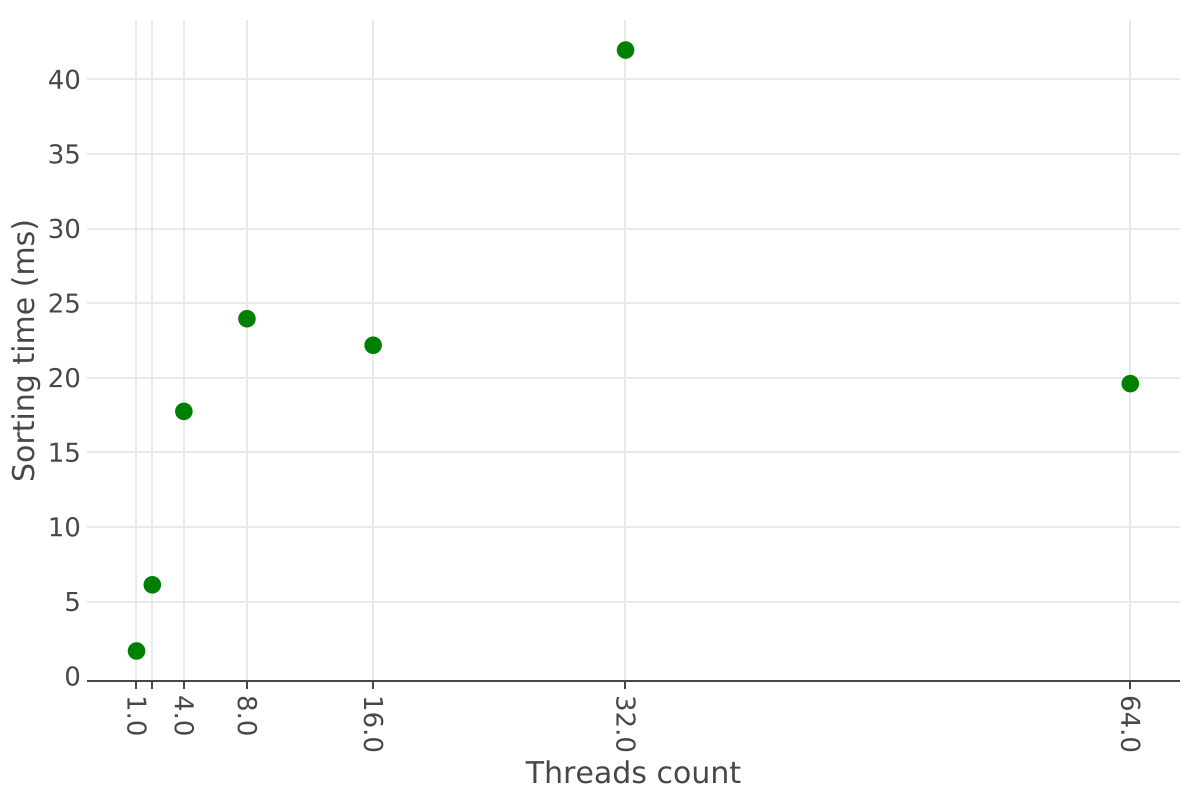
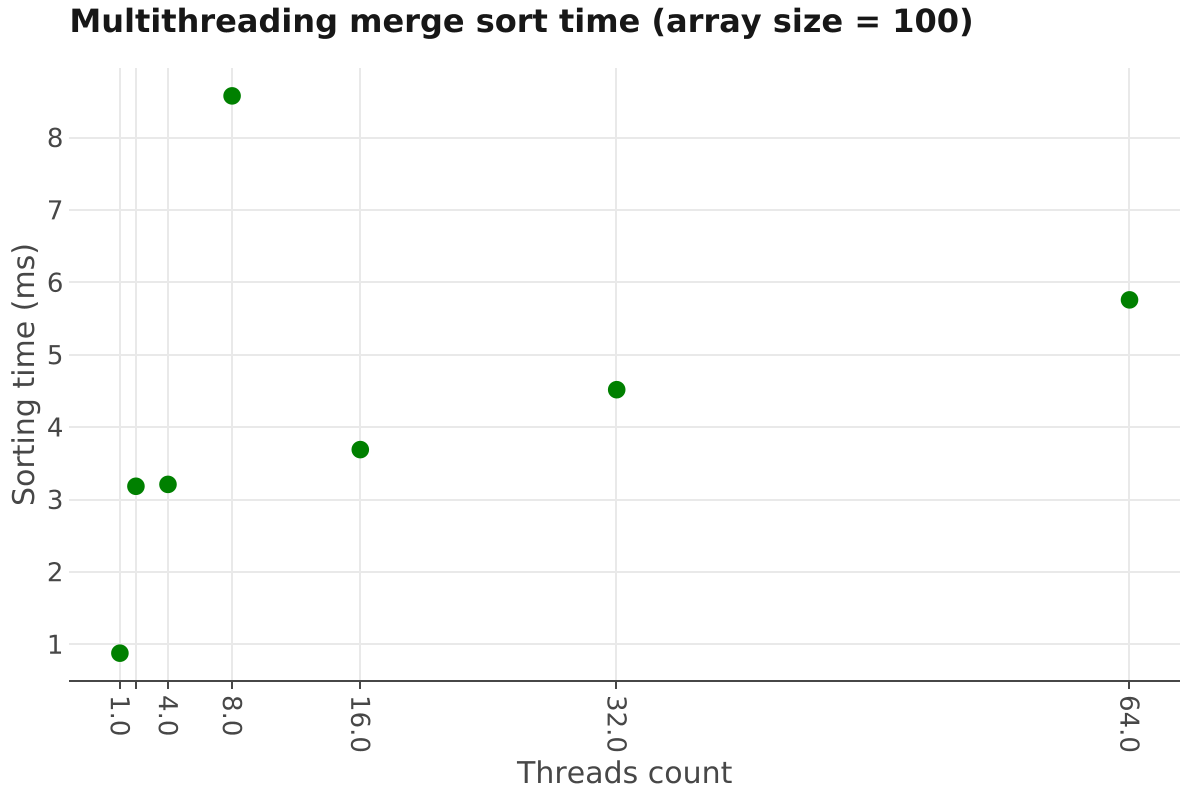
I fixed threads count error, rewrote tests and added new plots

diff --git a/src/test/kotlin/Homework4/MergeSortTest.kt b/src/test/kotlin/Homework4/MergeSortTest.kt
@@ -1,38 +1,38 @@
 package homework.four
 
-import org.junit.jupiter.api.Assertions.assertEquals
+import org.junit.jupiter.api.Assertions.assertTrue
 import org.junit.jupiter.params.ParameterizedTest
 import org.junit.jupiter.params.provider.Arguments
 import org.junit.jupiter.params.provider.MethodSource
+import kotlin.math.pow
 import kotlin.random.Random
 
 internal class MergeSortTest {
     @ParameterizedTest
     @MethodSource("addTestInputData")
-    fun <K : Comparable<K>> multiThreadMergeSort(array: Array<K>, maxThreadsCount: Int) {
+    fun <K : Comparable<K>> multiThreadMergeSortTest(array: Array<K>, maxThreadsCount: Int) {
         val ms = MergeSort(array, maxThreadsCount, 0)
         ms.multiThreadMergeSort(0, array.size)
-        assertEquals(true, ms.array.contentEquals(array.sortedArray()))
+        assertTrue(ms.array.contentEquals(array.sortedArray()))
     }
 
     companion object {
         @JvmStatic
-        fun addTestInputData() = listOf(
-            Arguments.of(emptyArray<Int>(), 1),
-            Arguments.of(arrayOf(2, 5, 4, 3, 1, 8, 4, 9, 7, 10), 1),
-            Arguments.of(Array(1000) { Random.nextInt() }, 1),
-            Arguments.of(emptyArray<Int>(), 2),
-            Arguments.of(arrayOf(2, 5, 4, 3, 1, 8, 4, 9, 7, 10), 2),
-            Arguments.of(Array(1000) { Random.nextInt() }, 2),
-            Arguments.of(emptyArray<Int>(), 4),
-            Arguments.of(arrayOf(2, 5, 4, 3, 1, 8, 4, 9, 7, 10), 4),
-            Arguments.of(Array(1000) { Random.nextInt() }, 4),
-            Arguments.of(emptyArray<Int>(), 8),
-            Arguments.of(arrayOf(2, 5, 4, 3, 1, 8, 4, 9, 7, 10), 8),
-            Arguments.of(Array(1000) { Random.nextInt() }, 8),
-            Arguments.of(emptyArray<Int>(), 16),
-            Arguments.of(arrayOf(2, 5, 4, 3, 1, 8, 4, 9, 7, 10), 16),
-            Arguments.of(Array(1000) { Random.nextInt() }, 16)
-        )
+        fun addTestInputData(): List<Arguments> {
+            val testList = mutableListOf<Arguments>()
+            for (i in 0..6) {
+                for (j in 0..6) {
+                    testList.add(
+                        Arguments.of(
+                            Array(power(10, i)) { Random.nextInt() },
+                            power(2, j)
+                        )
+                    )
+                }
+            }
+            return testList.toList()
+        }
+
+        private fun power(a: Int, x: Int) = a.toFloat().pow(x).toInt()
     }
 }

diff --git a/src/main/kotlin/Homework4/MergeSort.kt b/src/main/kotlin/Homework4/MergeSort.kt
@@ -1,5 +1,8 @@
 package homework.four
 
+import kotlin.math.ceil
+import kotlin.math.floor
+
 class MergeSort<K : Comparable<K>>(
     val array: Array<K>,
     private val maxThreadsCount: Int,
@@ -46,14 +49,17 @@ class MergeSort<K : Comparable<K>>(
             if (threadsCount >= maxThreadsCount - 1) {
                 singleThreadMergeSort(left, right)
             } else {
+                val leftThreadsCount = ceil(maxThreadsCount.toDouble() / 2).toInt()
+                val rightThreadsCount = floor(maxThreadsCount.toDouble() / 2).toInt()
                 val leftThread =
-                    Thread { MergeSort(array, maxThreadsCount, threadsCount++).multiThreadMergeSort(left, middle) }
+                    Thread { MergeSort(array, leftThreadsCount, threadsCount++).multiThreadMergeSort(left, middle) }
                 val rightThread =
-                    Thread { MergeSort(array, maxThreadsCount, threadsCount++).multiThreadMergeSort(middle, right) }
+                    Thread { MergeSort(array, rightThreadsCount, threadsCount++).multiThreadMergeSort(middle, right) }
                 leftThread.start()
                 rightThread.start()
                 leftThread.join()
                 rightThread.join()
+
                 merge(left, right)
             }
         }

diff --git a/src/main/kotlin/Homework4/plot.kt b/src/main/kotlin/Homework4/plot.kt
@@ -2,6 +2,7 @@ package homework.four
 
 import jetbrains.letsPlot.export.ggsave
 import jetbrains.letsPlot.geom.geomPoint
+import jetbrains.letsPlot.label.labs
 import jetbrains.letsPlot.letsPlot
 import jetbrains.letsPlot.scale.scaleXContinuous
 import java.util.Scanner
@@ -41,9 +42,9 @@ fun main() {
     val sortingTime = meanSortingTime.map { it.value }.toList()
     val data = mapOf<String, Any>("Threads count" to threadsCount, "Sorting time (ms)" to sortingTime)
 
-    val fig = letsPlot(data) + geomPoint(
+    val fig = letsPlot(data) + labs(title = "Multithreading merge sort time (array size = $size)") + geomPoint(
         color = "dark-green",
-        size = FIGURE_POINT_SIZE
+        size = FIGURE_POINT_SIZE,
     ) { x = "Threads count"; y = "Sorting time (ms)" } + scaleXContinuous(
         breaks = THREADS_COUNT_LIST
     )
